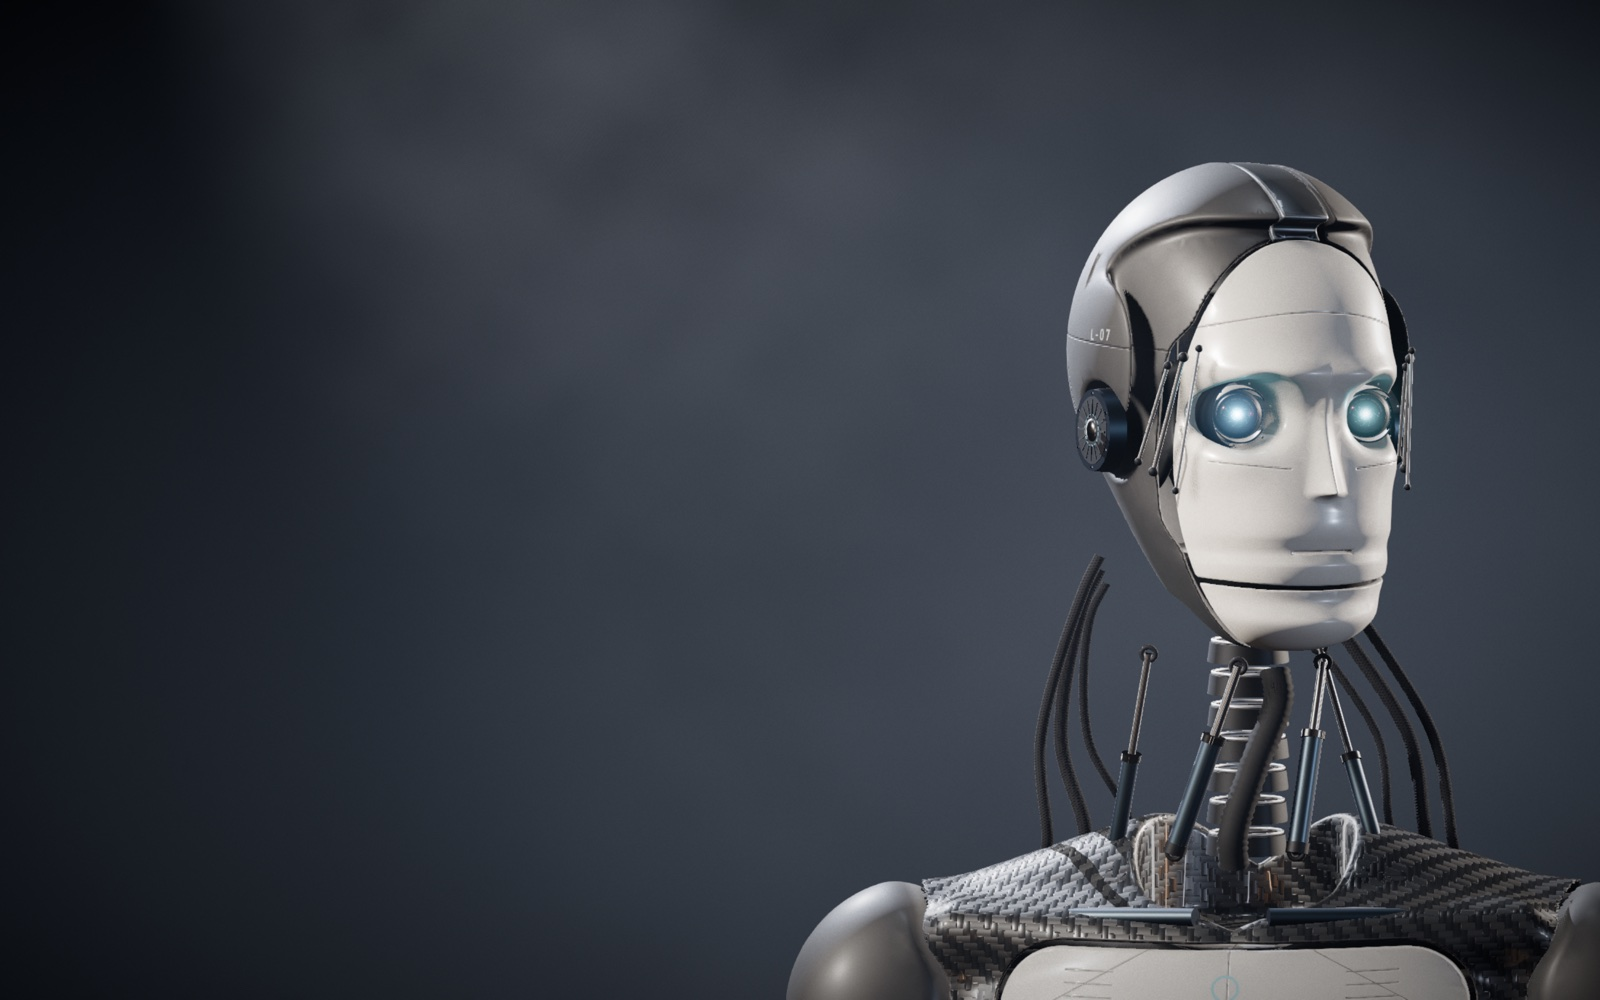
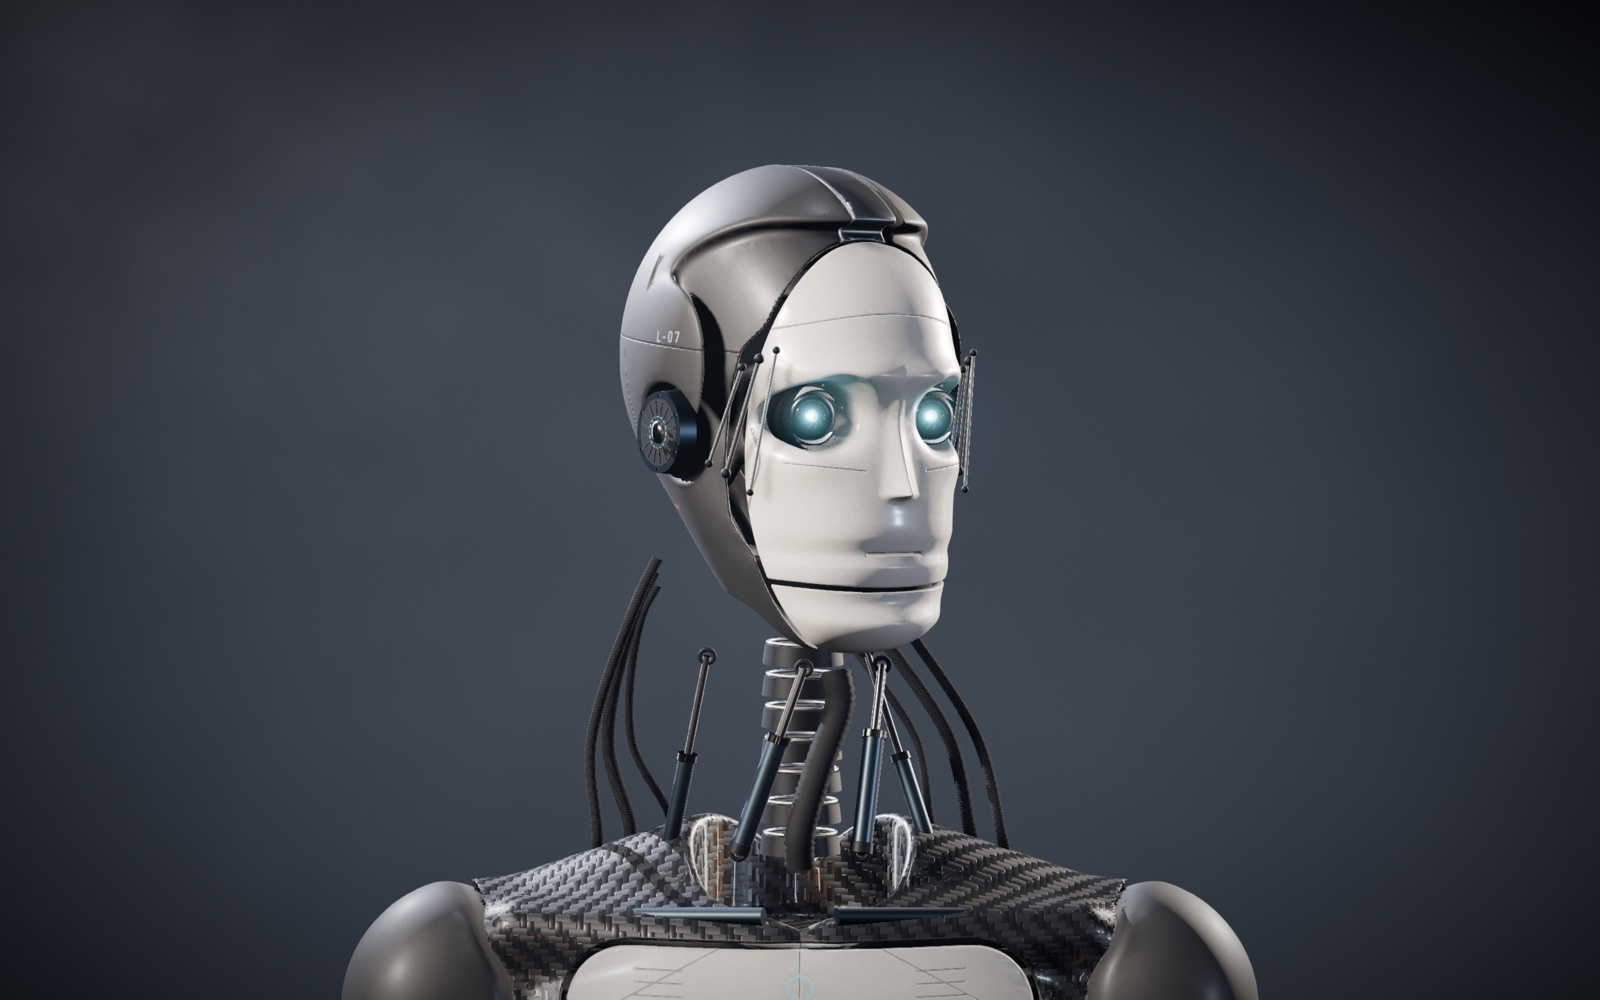
FOLLOW ME: fiksna kamera, poprsje stoji na mjestu
FOLLOW ME više ne koristi WINDOW projekciju nego fiksnu kameru u neutralnom
kadru: položaj glave ne utječe ni na kameru ni na projekciju, pa poprsje i
ramena stoje na istom pikselu, a robot ne mijenja veličinu s udaljenošću (na
nju reagira samo blenda). Oči, glava i vrat i dalje se okreću za tobom s istim
pojačanjem i oprugama (~40° na 20 cm). Isto na mobitelu (kamera i povlačenje).
LOOK AROUND je isti; M i dalje ručno bira ORBIT ili WINDOW.

Claude-Session: https://claude.ai/code/session_01BTwamYz8DoMUsid47j3zBV

diff --git a/src/main.js b/src/main.js
@@ -54,17 +54,19 @@ if (IS_MOBILE) {
 
 // Dva načina (gumb u dnu ekrana, tipka G):
 //   LOOK AROUND — ORBIT kamera, ti kružiš oko robota; on stoji mirno, oči prate do ±25° (pogled 1);
-//   FOLLOW ME   — WINDOW kamera miruje, robot okreće glavu i oči za tobom (pogled 3, pojačan okret).
-// Svaki način kamere ima svoj pogled, pa i M (ORBIT ↔ WINDOW) prebacuje isti par.
+//   FOLLOW ME   — FIKSNA kamera u neutralnom kadru (glava ne utječe ni na kameru ni na projekciju):
+//                 poprsje stoji, a oči, glava i vrat okreću se za tobom (pogled 3, pojačan okret).
+// M ručno bira ORBIT ili WINDOW (fizički točna projekcija s oka; nije ni jedan od dva gumba).
 // Pri otvaranju stranice uvijek je FOLLOW ME.
 const VIEW_MODES = {
   look: { camera: 'orbit', gaze: 1, toast: 'Look around — move your head to circle the robot' },
-  follow: { camera: 'window', gaze: 3, toast: 'Follow me — the robot turns to follow you' },
+  follow: { camera: 'fixed', gaze: 3, toast: 'Follow me — the robot turns to follow you' },
 };
 let cameraMode = VIEW_MODES.follow.camera;
 // Ponašanje pogleda po načinu kamere: 1 = prati do ±25°, 2 = oči uvijek prate, 3 = glava i oči prate.
-const gazeModes = { orbit: VIEW_MODES.look.gaze, window: VIEW_MODES.follow.gaze };
-const viewModeOf = (camera) => (camera === 'orbit' ? 'look' : 'follow');
+const gazeModes = { orbit: VIEW_MODES.look.gaze, fixed: VIEW_MODES.follow.gaze, window: 3 };
+const viewModeOf = (camera) => (camera === 'orbit' ? 'look' : camera === 'fixed' ? 'follow' : 'window');
+const CAMERA_BADGE = { orbit: 'ORBIT', window: 'WINDOW', fixed: 'FOLLOW ME' };
 
 const QUALITY_KEY = 'robot:quality';
 let quality = 'high';
@@ -338,7 +340,7 @@ function setCameraMode(mode, { badge = true } = {}) {
   cameraMode = mode;
   if (mode === 'orbit' && !orbit.neutral) orbit.recalibrate(performance.now(), 1.0);
   modeSwitch.set(viewModeOf(mode));
-  if (badge) hud.badge(mode === 'orbit' ? 'ORBIT' : 'WINDOW');
+  if (badge) hud.badge(CAMERA_BADGE[mode]);
 }
 
 /** LOOK AROUND ili FOLLOW ME (gumb, tipka G): kamera + pripadni pogled robota. */
@@ -702,13 +704,18 @@ function frame() {
     pa.set(rect.x0, rect.y0, 0);
     pb.set(rect.x1, rect.y0, 0);
     pc.set(rect.x0, rect.y1, 0);
-    if (settings.eye === 'left') mono.sub(half);
-    if (settings.eye === 'right') mono.add(half);
+    // FOLLOW ME: kamera stoji u neutralnom kadru (oko na mirovanju u sredini), pa se ni
+    // robot ni njegova veličina ne mijenjaju s glavom; WINDOW: kamera je na stvarnom oku.
+    const camEye = mode === 'fixed' ? neutralEye.set(rect.cx, rect.cy, REST_DISTANCE) : eyeC;
+    if (mode === 'fixed') mono.copy(camEye);
+    else if (settings.eye === 'left') mono.sub(half);
+    else if (settings.eye === 'right') mono.add(half);
     applyOffAxis(camMono, pa, pb, pc, mono, NEAR, FAR);
     if (stereo) {
       const k = settings.stereoStrength;
-      eyeL.copy(eyeC).addScaledVector(half, -k);
-      eyeR.copy(eyeC).addScaledVector(half, k);
+      if (mode === 'fixed') half.set(settings.ipd / 2, 0, 0);
+      eyeL.copy(camEye).addScaledVector(half, -k);
+      eyeR.copy(camEye).addScaledVector(half, k);
       applyOffAxis(camLeft, pa, pb, pc, eyeL, NEAR, FAR);
       applyOffAxis(camRight, pa, pb, pc, eyeR, NEAR, FAR);
     }
@@ -768,10 +775,10 @@ function frame() {
   const orbitInfo =
     mode === 'orbit'
       ? `ORBIT az ${orbit.az.toFixed(1)}° el ${(orbit.effectiveEl ?? orbit.el).toFixed(1)}° zoom ${(1 / orbit.zoom).toFixed(2)}×${orbit.calibrating ? ' · kalibriram' : ''}`
-      : 'WINDOW';
+      : CAMERA_BADGE[mode];
   debug.draw({ tracker, hands, hand, vision, source, eye: pose.eye, rect, stereo, sceneName: robot.name, quality: `${quality} ${renderer.getPixelRatio().toFixed(2)}×`, orbitInfo });
   panel.showMeasurement(pose.eye, source);
-  orbitPanel.showState(mode === 'orbit' ? orbitInfo : 'Robot je u WINDOW načinu (M za orbit).');
+  orbitPanel.showState(mode === 'orbit' ? orbitInfo : mode === 'fixed' ? 'FOLLOW ME: kamera je fiksna (G za LOOK AROUND, M za ORBIT).' : 'Robot je u WINDOW načinu (M za orbit).');
 }
 renderer.setAnimationLoop(frame);
 

diff --git a/src/scenes/robot/robotScene.js b/src/scenes/robot/robotScene.js
@@ -34,7 +34,7 @@ const ANGRY = new THREE.Color('#ff2a12');
 // Položaj robota: središte između očiju (cm, prostor prozora) i mjerilo.
 const ROBOT = { y: 3.6, z: -64, scale: 0.86 };
 const DEG = Math.PI / 180;
-// FOLLOW ME (WINDOW + pogled 3): glava se okreće za gledateljem pojačano — pomak od
+// FOLLOW ME (fiksna ili WINDOW kamera + pogled 3): glava se okreće za gledateljem pojačano — pomak od
 // ~20 cm u stranu (na ~60 cm od ekrana, ~9° iz robotove glave) daje ~40° okreta glave.
 // Meki limit (tanh) da glava ne ode u profil; oči i dalje gledaju točno u gledatelja.
 const FOLLOW_ME = { yawGain: 5.5, pitchGain: 2.2, maxYaw: 55 * DEG, maxPitch: 22 * DEG };
@@ -787,10 +787,10 @@ export class RobotScene {
     const yaw = Math.atan2(viewerLocal.x, viewerLocal.z);
     const pitch = Math.atan2(viewerLocal.y, Math.hypot(viewerLocal.x, viewerLocal.z));
     // Ponašanje pogleda: 1 = oči prate do ±25° od fronte, zatim gledaju naprijed (LOOK AROUND);
-    // 2 = oči uvijek prate (do granice rotacije oka); 3 = glava i oči prate (FOLLOW ME u WINDOW).
+    // 2 = oči uvijek prate (do granice rotacije oka); 3 = glava i oči prate (FOLLOW ME).
     const gazeMode = ctx.gazeMode ?? 3;
     const followHead = gazeMode === 3;
-    const followMe = followHead && ctx.cameraMode === 'window';
+    const followMe = followHead && ctx.cameraMode !== 'orbit';
 
     // Ruke: kažiprst privlači pogled, dodir lica plaši/ljuti, dlan rastavlja, šaka sklapa.
     this.#updateHands(dt, ctx.hand);

diff --git a/src/style.css b/src/style.css
@@ -401,6 +401,7 @@ kbd + kbd { margin-left: 0; }
   transition: transform 0.32s cubic-bezier(0.3, 0.7, 0.2, 1);
 }
 .mode-switch[data-mode='follow']::before { transform: translateX(100%); }
+.mode-switch[data-mode='window']::before { opacity: 0; } /* M → WINDOW: nijedan od dva gumba */
 .mode-switch button {
   position: relative;
   display: inline-flex;

diff --git a/README.md b/README.md
@@ -18,7 +18,7 @@ kadar bez stiskanja, a bez kamere se njime upravlja dodirom — vidi [Mobitel](#
 
 **Živo:** https://artme-nx.github.io/robot/
 
-| Sučelje: FOLLOW ME, prva uputa | FOLLOW ME — glava 15 cm udesno | LOOK AROUND — kamera kruži |
+| Sučelje: FOLLOW ME, prva uputa | FOLLOW ME — glava 15 cm udesno, poprsje stoji | LOOK AROUND — kamera kruži |
 | --- | --- | --- |
 | ![Sučelje](docs/screenshots/robot-sucelje.jpg) | ![FOLLOW ME](docs/screenshots/robot-follow-me.jpg) | ![LOOK AROUND](docs/screenshots/robot-look-around.jpg) |
 
@@ -131,7 +131,7 @@ npm run preview   # lokalni pregled builda
 
 | Tipka | Akcija |
 | --- | --- |
-| `M` | način kamere: **ORBIT** ↔ **WINDOW** (kratko se prikaže u kutu; gumb u dnu prati isto) |
+| `M` | ručni izbor kamere: **ORBIT** ↔ **WINDOW** (kratko se prikaže u kutu) |
 | `N` | ORBIT: "ovo je centar" — trenutni položaj glave postaje neutralni |
 | `T` | ORBIT panel: pojačanja, kutovi, zoom, mrtva zona, krutost opruge (spremaju se) |
 | `G` | **LOOK AROUND** ↔ **FOLLOW ME** (isto kao gumb u dnu ekrana) |
@@ -163,7 +163,10 @@ Bez kamere (odbijena dozvola, nema uređaja) miš automatski glumi glavu, a ruke
 
 Gumb u dnu ekrana (i tipka `G`) prebacuje dva načina; pri otvaranju stranice uvijek je **FOLLOW ME**.
 
-**FOLLOW ME** = WINDOW kamera + pogled 3: kamera miruje (ekran je prozor), a robot okreće glavu i oči za tobom.
+**FOLLOW ME** = fiksna kamera + pogled 3: kamera stoji u neutralnom kadru (isti kadar koji WINDOW daje za glavu u
+sredini na ~60 cm) i položaj glave ne utječe ni na kameru ni na projekciju — poprsje i ramena stoje na istom
+mjestu na ekranu, robot ne mijenja veličinu kad se približiš ili udaljiš (na to reagira samo blenda), a za tobom
+se okreću oči, glava i vrat.
 Okret glave je namjerno pojačan da reakcija bude jasna na prvi pogled: pomak od **20 cm u stranu** (na ~60 cm
 od ekrana, oko 9° gledano iz robotove glave) daje **~40° okreta glave** (pojačanje ×5,5 s mekim limitom
 oko 55°; gore-dolje ×2,2, do 22°). Oči stignu prve i gledaju točno u tebe, a glava i vrat slijede s kašnjenjem
@@ -172,8 +175,9 @@ bez pojačanja.
 
 **LOOK AROUND** = ORBIT kamera + pogled 1: ti kružiš oko robota, a on stoji mirno (opis ORBIT-a ispod).
 
-`M` i dalje prebacuje samo kameru (ORBIT ↔ WINDOW); kako svaki način kamere ima svoj pogled, `M` u praksi
-prebacuje isti par, a gumb pokazuje gdje si.
+`M` i dalje ručno bira kameru: ORBIT ili WINDOW (fizički točna off-axis projekcija s tvog oka, u kojoj se
+cijeli prizor pomiče s glavom kao kroz prozor). WINDOW nije ni jedan od dva gumba, pa tada nijedan nije
+označen; `G` ili gumb vraćaju u FOLLOW ME / LOOK AROUND.
 
 ### ORBIT
 
@@ -357,7 +361,7 @@ iz `window.screenX/Y`, pa je "prozor u svijet" upravo onaj dio ekrana koji prozo
 
 Za automatske testove (Playwright) stranica izlaže `window.__ht`: `setHead([x, y, z])` (položaj glave u cm
 od centra prozora, `null` vraća praćenje), `setQuality('high'|'low')`, `setStereo(bool)`,
-`setCameraMode('orbit'|'window')`, `setOrbit({ az, el, zoom })` (orbita bez glave; `null` vraća upravljanje),
+`setCameraMode('orbit'|'window'|'fixed')`, `setOrbit({ az, el, zoom })` (orbita bez glave; `null` vraća upravljanje),
 `setViewMode('follow'|'look')` (FOLLOW ME / LOOK AROUND, kao gumb), `setGazeMode(1|2|3)` (pogled za trenutni
 način kamere), `blink()` (okini zatvarač odmah), `hints` (upute: `isDone(id)`, `items`), `benchmark(n)` (ms po
 frameu bez vsynca), `robot` (objekt scene; `robot.wake()` ponovno budi oči) i `state()` (`phase`: `loading` →
